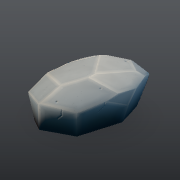
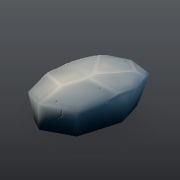
Rock colour runs across the stone, moss fades in, Greystone by default
On a rock with Rounded light, colour now comes from the light at each point,
its height and soft patches in space, so faces share their colour where they
meet and only keep a little tone of their own in the middle. Top edges get a
light painted line. Moss fades in softly, wanders with the patches and creeps
over edges, in calmer greens with the lime kept for its lightest touches.

New rocks start in Greystone, a new stone colour. Saved rocks and low-poly
rocks are painted as before.

Changed region(s): [[0.3056, 0.3056, 0.8056, 0.6667], [0.1667, 0.5, 0.1944, 0.5556], [0.7222, 0.5278, 0.75, 0.5556]]

diff --git a/frontend/src/assets/rocks/rock-mesh.ts b/frontend/src/assets/rocks/rock-mesh.ts
@@ -12,10 +12,11 @@
  */
 
 import * as THREE from 'three'
+import {valueNoise3} from '../shared/geometry-utils'
 import {mossFacing, weatherPaint, type MossFrom} from '../shared/weather'
 import {colourRamp} from '../style/ramp'
 import {rampOf, STONE_ROWS, type OwnColours} from '../style/own-colours'
-import {MOSS_RAMP, ROCK_RAMPS, type RockPaletteId} from '../style/palettes'
+import {CALM_MOSS_RAMP, MOSS_RAMP, ROCK_RAMPS, type RockPaletteId} from '../style/palettes'
 import type {CrackedChunk} from './rock-damage'
 import {distanceToChunk, dot, facesOfChunk, normalize, type RockChunk, type RockPlan, type RockPlane, type Vec3} from './rock-plan'
 
@@ -65,6 +66,17 @@ const MOSS_REACH = 0.6
 /** How far darkness reaches from a seam or the ground, as a share of the size and the height. */
 const SEAM_REACH = 0.1
 const GROUND_REACH = 0.25
+/** A carved rock's colour: how large its soft patches are against its size, and how strong. */
+const PATCH_SIZE = 0.45
+const PATCH_LIGHT = 0.1
+/** How much of a face's own tone a carved rock keeps, fading to none at its edges. */
+const CARVED_FACE_TONE = 0.4
+/** How soft the line where moss gives way to stone is, in facing. */
+const MOSS_SOFTNESS = 0.14
+/** How far the patches push moss up or down a slope. */
+const MOSS_PATCHES = 0.34
+/** How much darker stone is just where moss begins. */
+const MOSS_RIM = 0.12
 /** Below this share of its detail, a rock has no edge rings. */
 const RINGS_FROM = 0.7
 /** A carved rock keeps a single wide edge down to this share, leaning this far. */
@@ -225,20 +237,40 @@ export function buildRockMesh(plan: RockPlan, surface: RockSurface, seed: number
     return best
 }
 
+/** Where a carved rock's colour is read: the light at the point, and how far out towards its face's edge it sits. */
+export interface CarvedPoint {
+    readonly n: Vec3
+    /** 0 at the middle of a face, 1 on its edge. */
+    readonly at: number
+}
+
+const smoothstep = (from: number, to: number, value: number) => {
+    const t = clamp01((value - from) / (to - from))
+
+    return t * t * (3 - 2 * t)
+}
+
 /**
  * The colour of the stone at a point on a face: darker in a seam between chunks
  * and near the ground, mossy where it faces the sky or the shade, under any snow.
+ *
+ * Given where a carved rock's point is, the colour runs across the whole rock: from
+ * the point's own light, its height and soft patches in space, so two faces meeting
+ * at an edge share their colour there, and moss fades in and creeps over edges.
  */
-export function rockPainter(plan: RockPlan, chunks: readonly RockChunk[], surface: RockSurface) {
+export function rockPainter(plan: RockPlan, chunks: readonly RockChunk[], surface: RockSurface, seed = 0) {
     const size = (plan.width + plan.height + plan.depth) / 3
     const stone = colourRamp(rampOf(surface.palette, ROCK_RAMPS, surface, STONE_ROWS))
     const moss = colourRamp(MOSS_RAMP)
+    const calmMoss = colourRamp(CALM_MOSS_RAMP)
     const mossAbove = surface.moss > 0 ? 1 - surface.moss * MOSS_REACH : Infinity
     const seamReach = size * SEAM_REACH
     const groundReach = plan.height * GROUND_REACH
     const weather = {snow: surface.snow ?? 0, wet: surface.wet ?? 0, mossFrom: surface.mossFrom ?? 'sky'}
+    const patchScale = 1 / (size * PATCH_SIZE)
+    const stoneColour = new THREE.Color()
 
-    const paintStone = (p: Vec3, plane: RockPlane, chunkIndex: number, onEdge: boolean): THREE.Color => {
+    const shadeAt = (p: Vec3, chunkIndex: number) => {
         let seam = Infinity
 
         chunks.forEach((other, index) => {
@@ -247,7 +279,42 @@ export function rockPainter(plan: RockPlan, chunks: readonly RockChunk[], surfac
             }
         })
 
-        const shade = (clamp01(seam / seamReach) * 0.35 + 0.65) * (clamp01(p[1] / groundReach) * 0.3 + 0.7)
+        return (clamp01(seam / seamReach) * 0.35 + 0.65) * (clamp01(p[1] / groundReach) * 0.3 + 0.7)
+    }
+
+    const paintCarved = (p: Vec3, plane: RockPlane, chunkIndex: number, onEdge: boolean, {n, at}: CarvedPoint): THREE.Color => {
+        const shade = shadeAt(p, chunkIndex)
+        const patch = valueNoise3(p[0] * patchScale, p[1] * patchScale, p[2] * patchScale, seed)
+        const fine = valueNoise3(p[0] * patchScale * 2.7, p[1] * patchScale * 2.7, p[2] * patchScale * 2.7, seed + 7)
+        const height = clamp01(p[1] / plan.height)
+        // A face keeps some tone of its own in its middle, none where it meets the next.
+        const tone = (plane.tone - 0.5) * 0.56 * surface.variation * CARVED_FACE_TONE * (1 - at * at)
+        const value =
+            0.36 +
+            (n[1] * 0.5 + 0.5) * 0.24 +
+            tone +
+            height * 0.18 +
+            patch * PATCH_LIGHT +
+            fine * PATCH_LIGHT * 0.4 +
+            // A painted light line along the top edges only.
+            (onEdge ? EDGE_LIGHT * clamp01(n[1] * 1.6) : 0)
+        const facing =
+            mossFacing(n[0], n[1], n[2], weather.mossFrom) + patch * MOSS_PATCHES + fine * MOSS_PATCHES * 0.4 + (weather.mossFrom === 'sky' ? (height - 0.5) * 0.12 : 0)
+        const mossy = surface.moss > 0 ? smoothstep(mossAbove - MOSS_SOFTNESS, mossAbove + MOSS_SOFTNESS, facing) : 0
+        // Stone darkens a little just where the moss begins.
+        const rim = mossy * (1 - mossy) * 4
+
+        stoneColour.copy(stone(value * shade * (1 - MOSS_RIM * rim)))
+
+        if (mossy <= 0) {
+            return stoneColour
+        }
+
+        return stoneColour.lerp(calmMoss((0.12 + (patch * 0.5 + 0.5) * 0.4 + (fine * 0.5 + 0.5) * 0.15 + n[1] * 0.12 + tone) * shade), mossy)
+    }
+
+    const paintStone = (p: Vec3, plane: RockPlane, chunkIndex: number, onEdge: boolean): THREE.Color => {
+        const shade = shadeAt(p, chunkIndex)
 
         if (mossFacing(plane.n[0], plane.n[1], plane.n[2], weather.mossFrom) > mossAbove) {
             return moss(onEdge ? 0.75 : (0.3 + plane.tone * 0.45) * shade)
@@ -266,8 +333,10 @@ export function rockPainter(plan: RockPlan, chunks: readonly RockChunk[], surfac
     }
 
     // Snow and wet lie over moss and stone alike.
-    return (p: Vec3, plane: RockPlane, chunkIndex: number, onEdge: boolean): THREE.Color =>
-        weatherPaint(paintStone(p, plane, chunkIndex, onEdge), plane.n[1], weather, plane.tone * 2 - 1)
+    return (p: Vec3, plane: RockPlane, chunkIndex: number, onEdge: boolean, carved?: CarvedPoint): THREE.Color =>
+        carved
+            ? weatherPaint(paintCarved(p, plane, chunkIndex, onEdge, carved), carved.n[1], weather, valueNoise3(p[0] * patchScale, p[1] * patchScale, p[2] * patchScale, seed + 3))
+            : weatherPaint(paintStone(p, plane, chunkIndex, onEdge), plane.n[1], weather, plane.tone * 2 - 1)
 }
 
 function meshAt(plan: RockPlan, surface: RockSurface, seed: number, detail: number, cutShare: number, chunkShare = PLAIN_CHUNKS): THREE.BufferGeometry {
@@ -298,7 +367,7 @@ function meshAt(plan: RockPlan, surface: RockSurface, seed: number, detail: numb
     const indices: number[] = []
     const pictured = (surface.grain ?? 0) > 0
 
-    const paint = rockPainter(plan, chunks, surface)
+    const paint = rockPainter(plan, chunks, surface, seed)
 
     chunks.forEach((chunk, chunkIndex) => {
         const faces = facesOfChunk(chunk)
@@ -378,8 +447,8 @@ function meshAt(plan: RockPlan, surface: RockSurface, seed: number, detail: numb
                     // so it still meets the next face.
                     const rise = pillow * (1 - at * at)
                     const moved = warp(rise > 0 ? [p[0] + plane.n[0] * rise, p[1] + plane.n[1] * rise, p[2] + plane.n[2] * rise] : p)
-                    const colour = paint(p, plane, chunkIndex, onEdge)
                     const lit = carved ? roundedLight(n, p) : n
+                    const colour = paint(p, plane, chunkIndex, onEdge, carved ? {n: lit, at} : undefined)
 
                     index = positions.length / 3
                     positions.push(moved[0], moved[1], moved[2])

diff --git a/frontend/src/tests/rock-colour.test.ts b/frontend/src/tests/rock-colour.test.ts
@@ -1,0 +1,84 @@
+import * as THREE from 'three'
+import {describe, expect, it} from 'vitest'
+import {cutRockDefaults, cutRockGenerator, type CutRockParameters} from '../assets/rocks/cut-rock-generator'
+import {damageRock} from '../assets/rocks/rock-damage'
+import {buildLowPolyRockMesh} from '../assets/rocks/low-poly-rock'
+import {buildRockMesh} from '../assets/rocks/rock-mesh'
+import {planRock} from '../assets/rocks/rock-plan'
+import {findPreset} from '../assets/trees/presets'
+
+function rockOf(id: string, changes: Partial<CutRockParameters> = {}) {
+    const preset = findPreset(id)!
+    const rock = {...(preset.parameters as unknown as CutRockParameters), ...changes}
+
+    return buildRockMesh(damageRock(planRock(rock, preset.seed), rock, preset.seed), rock, preset.seed, 1)
+}
+
+/** How far apart in colour the points that sit in one place on two faces are, on average. */
+function jumpAtEdges(geometry: THREE.BufferGeometry): number {
+    const position = geometry.getAttribute('position')
+    const colour = geometry.getAttribute('color')
+    const places = new Map<string, number[]>()
+
+    for (let index = 0; index < position.count; index++) {
+        const key = [position.getX(index), position.getY(index), position.getZ(index)].map((value) => Math.round(value * 1000)).join()
+
+        places.set(key, [...(places.get(key) ?? []), index])
+    }
+
+    let sum = 0
+    let count = 0
+
+    for (const indices of places.values()) {
+        for (let a = 1; a < indices.length; a++) {
+            const [i, j] = [indices[0], indices[a]]
+
+            sum += Math.abs(colour.getX(i) - colour.getX(j)) + Math.abs(colour.getY(i) - colour.getY(j)) + Math.abs(colour.getZ(i) - colour.getZ(j))
+            count++
+        }
+    }
+
+    return sum / Math.max(count, 1)
+}
+
+describe('colour across a rock', () => {
+    it('runs on over an edge, where before each face had its own', () => {
+        for (const id of ['boulder', 'mossy-boulder', 'cliff-face', 'damp-stone']) {
+            expect(jumpAtEdges(rockOf(id)), id).toBeLessThan(jumpAtEdges(rockOf(id, {rounded: 0})) * 0.5)
+        }
+    })
+
+    it('brings moss in softly, so moss and stone blend where they meet', () => {
+        const colour = rockOf('mossy-boulder').getAttribute('color')
+        let between = 0
+
+        for (let index = 0; index < colour.count; index++) {
+            const green = colour.getY(index) - Math.max(colour.getX(index), colour.getZ(index))
+
+            between += green > 0.02 && green < 0.08 ? 1 : 0
+        }
+
+        expect(between).toBeGreaterThan(colour.count * 0.03)
+    })
+
+    it('starts new rocks in a warm grey, and keeps Lavender as a choice', () => {
+        expect(cutRockDefaults.palette).toBe('greystone')
+
+        const stone = cutRockGenerator.parameters.find((spec) => spec.key === 'palette')
+        const values = stone?.kind === 'choice' ? stone.options.map((option) => option.value) : []
+
+        expect(values).toContain('lavender')
+        expect(values).toContain('greystone')
+    })
+
+    it('leaves a low-poly rock painted as it always was', () => {
+        const preset = findPreset('boulder')!
+        const lowPoly = (rounded: number) => {
+            const rock = {...(preset.parameters as unknown as CutRockParameters), build: 'low-poly' as const, rounded}
+
+            return Array.from(buildLowPolyRockMesh(damageRock(planRock(rock, preset.seed), rock, preset.seed), rock, 1).getAttribute('color').array)
+        }
+
+        expect(lowPoly(0.5)).toEqual(lowPoly(0))
+    })
+})

diff --git a/frontend/src/tests/rounded-light.test.ts b/frontend/src/tests/rounded-light.test.ts
@@ -44,12 +44,12 @@ describe('rounded light on rocks', () => {
     })
 
     it('at 0 builds a rock exactly as it was before Rounded light existed', () => {
-        // Taken from the rocks as they were built before, at every level.
-        expect(fingerprint(rockOf('boulder', {rounded: 0}))).toBe('0366de1122e02e56693e8c80974116b905baa5f8')
-        expect(fingerprint(rockOf('boulder', {rounded: 0}, 0.5))).toBe('7a15fb5df2f5ea4304961fc6419d832f37407669')
-        expect(fingerprint(rockOf('boulder', {rounded: 0}, 0.2))).toBe('8830f0b4d889ede088a3bd6e789e6dfc0a4ac83f')
-        expect(fingerprint(rockOf('cracked-boulder', {rounded: 0}))).toBe('507a45b9194f6894d9e9cf432c954e03f7107f23')
-        expect(fingerprint(rockOf('cliff-face', {rounded: 0}))).toBe('62b56ae6d78f9a04e3dda50ddf6cd92465704c76')
+        // Taken from the rocks as they were built before, at every level, in the stone they had then.
+        expect(fingerprint(rockOf('boulder', {rounded: 0, palette: 'lavender'}))).toBe('0366de1122e02e56693e8c80974116b905baa5f8')
+        expect(fingerprint(rockOf('boulder', {rounded: 0, palette: 'lavender'}, 0.5))).toBe('7a15fb5df2f5ea4304961fc6419d832f37407669')
+        expect(fingerprint(rockOf('boulder', {rounded: 0, palette: 'lavender'}, 0.2))).toBe('8830f0b4d889ede088a3bd6e789e6dfc0a4ac83f')
+        expect(fingerprint(rockOf('cracked-boulder', {rounded: 0, palette: 'lavender'}))).toBe('507a45b9194f6894d9e9cf432c954e03f7107f23')
+        expect(fingerprint(rockOf('cliff-face', {rounded: 0, palette: 'lavender'}))).toBe('62b56ae6d78f9a04e3dda50ddf6cd92465704c76')
     })
 
     it('rolls the light across a face, where before it was one direction', () => {

diff --git a/frontend/src/assets/style/palettes.ts b/frontend/src/assets/style/palettes.ts
@@ -161,7 +161,7 @@ export const BARK_TONES: Readonly<
     bone: {barkDeep: '#6b6358', barkLight: '#e8e0cf'},
 }
 
-export type RockPaletteId = 'lavender' | 'slate' | 'granite' | 'sandstone' | 'redrock' | 'basalt' | 'frost'
+export type RockPaletteId = 'greystone' | 'lavender' | 'slate' | 'granite' | 'sandstone' | 'redrock' | 'basalt' | 'frost'
 
 /** Stone for cut rocks, shadow to highlight. The shadow shifts hue, as a palette's does. */
 export const ROCK_RAMPS: Readonly<Record<RockPaletteId, readonly string[]>> = {
@@ -172,10 +172,16 @@ export const ROCK_RAMPS: Readonly<Record<RockPaletteId, readonly string[]>> = {
     redrock: ['#4a2438', '#94483f', '#cb7c58', '#f2c49a'],
     basalt: ['#14162a', '#30334e', '#565a78', '#9599b4'],
     frost: ['#3c5583', '#7c9fc9', '#bcd6ec', '#f4fbff'],
+    // A warm grey, the commonest stone in a stylised forest, and the one new rocks start with.
+    // Last, so own colours saved with a row missing still fill it from Lavender.
+    greystone: ['#434445', '#747677', '#a9aaaa', '#e4e5e4'],
 }
 
 /** Moss on any stone, shadow to highlight. */
 export const MOSS_RAMP: readonly string[] = ['#3a7a12', '#68a820', '#a2d63e']
+
+/** Moss on a carved rock: calmer greens, with the bright lime kept for its lightest touches. */
+export const CALM_MOSS_RAMP: readonly string[] = ['#284618', '#3f6624', '#5d8a30', '#a2d63e']
 
 export type PetalPaletteId = 'white' | 'pink' | 'flame' | 'gold' | 'violet' | 'cream' | 'red' | 'blue'
 

diff --git a/frontend/src/panels/palette-choice.ts b/frontend/src/panels/palette-choice.ts
@@ -24,7 +24,7 @@ export interface PaletteSet {
 /** Every set of colours a palette can be saved for. */
 export const PALETTE_SETS: readonly PaletteSet[] = [
     {set: TREE_SET, title: 'Trees', labels: COLOUR_KEYS.map((key) => COLOUR_LABELS[key]), start: COLOUR_KEYS.map((key) => PALETTES.spring[key])},
-    {set: 'stone', title: 'Rocks', labels: STONE_ROWS.map((row) => row.label), start: ROCK_RAMPS.lavender},
+    {set: 'stone', title: 'Rocks', labels: STONE_ROWS.map((row) => row.label), start: ROCK_RAMPS.greystone},
     {set: 'bush-leaves', title: 'Bush leaves', labels: LEAF_ROWS.map((row) => row.label), start: BUSH_RAMPS.summer},
     {set: 'grass', title: 'Grass', labels: GRASS_ROWS.map((row) => row.label), start: GRASS_RAMPS.meadow},
     {set: 'flowers', title: 'Flowers', labels: FLOWER_ROWS.map((row) => row.label), start: PETAL_RAMPS.pink},

diff --git a/frontend/src/tests/cut-rock.test.ts b/frontend/src/tests/cut-rock.test.ts
@@ -86,14 +86,15 @@ describe('cut rocks', () => {
             let best = 0
 
             for (let i = 0; i < colours.count; i++) {
-                best = Math.max(best, colours.getY(i) - colours.getZ(i))
+                // Greener than both red and blue, as moss is and warm grey stone is not.
+                best = Math.max(best, Math.min(colours.getY(i) - colours.getZ(i), colours.getY(i) - colours.getX(i)))
             }
 
             return best
         }
 
         expect(greenest(0)).toBeLessThan(0.05)
-        expect(greenest(1)).toBeGreaterThan(0.2)
+        expect(greenest(1)).toBeGreaterThan(0.12)
     })
 
     it('adding a chunk leaves the others as they were', () => {

diff --git a/frontend/src/assets/rocks/cut-rock-generator.ts b/frontend/src/assets/rocks/cut-rock-generator.ts
@@ -77,7 +77,7 @@ const PALETTE: ChoiceParameter<RockPaletteId | OwnColours> = {
     key: 'palette',
     label: 'Stone',
     help: 'The colours of the stone, shadow to highlight.',
-    default: 'lavender',
+    default: 'greystone',
     options: [
         ...(Object.keys(ROCK_RAMPS) as RockPaletteId[]).map((value) => ({
             value,
